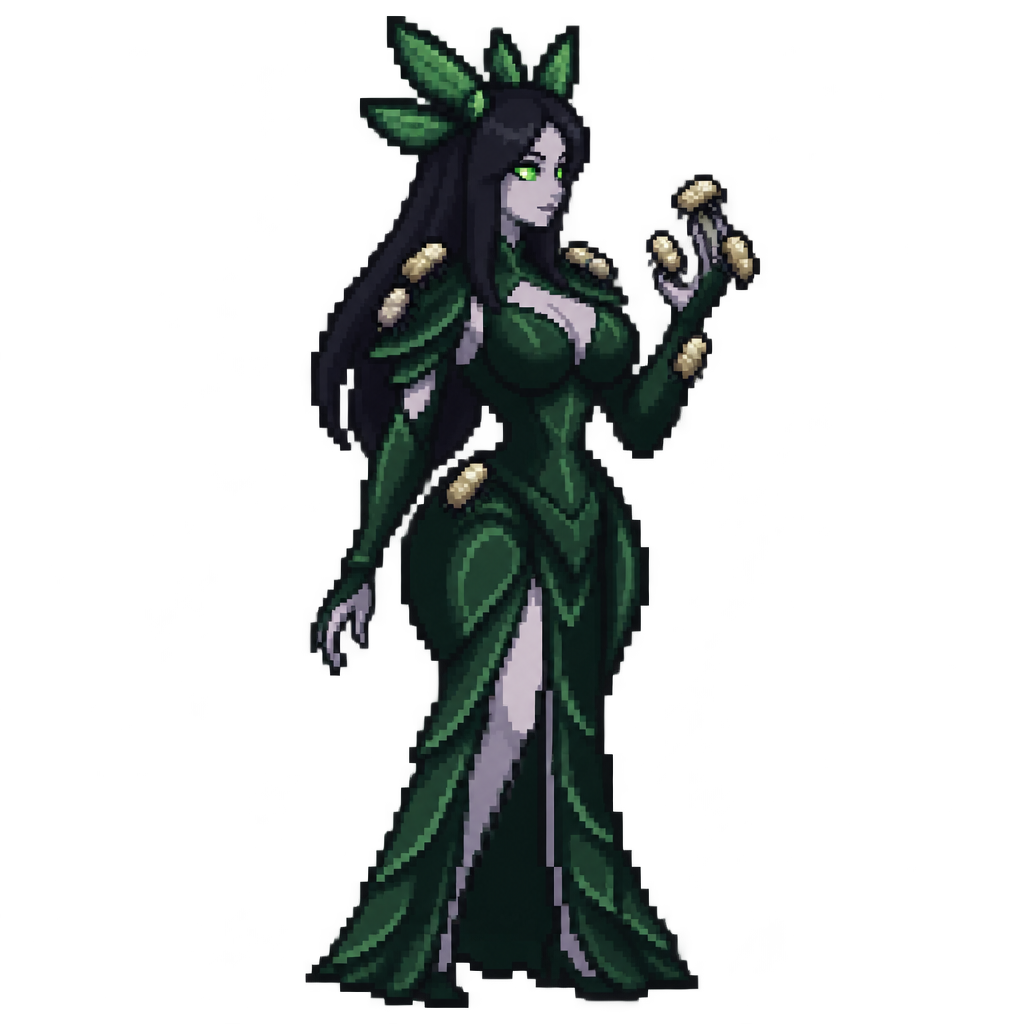
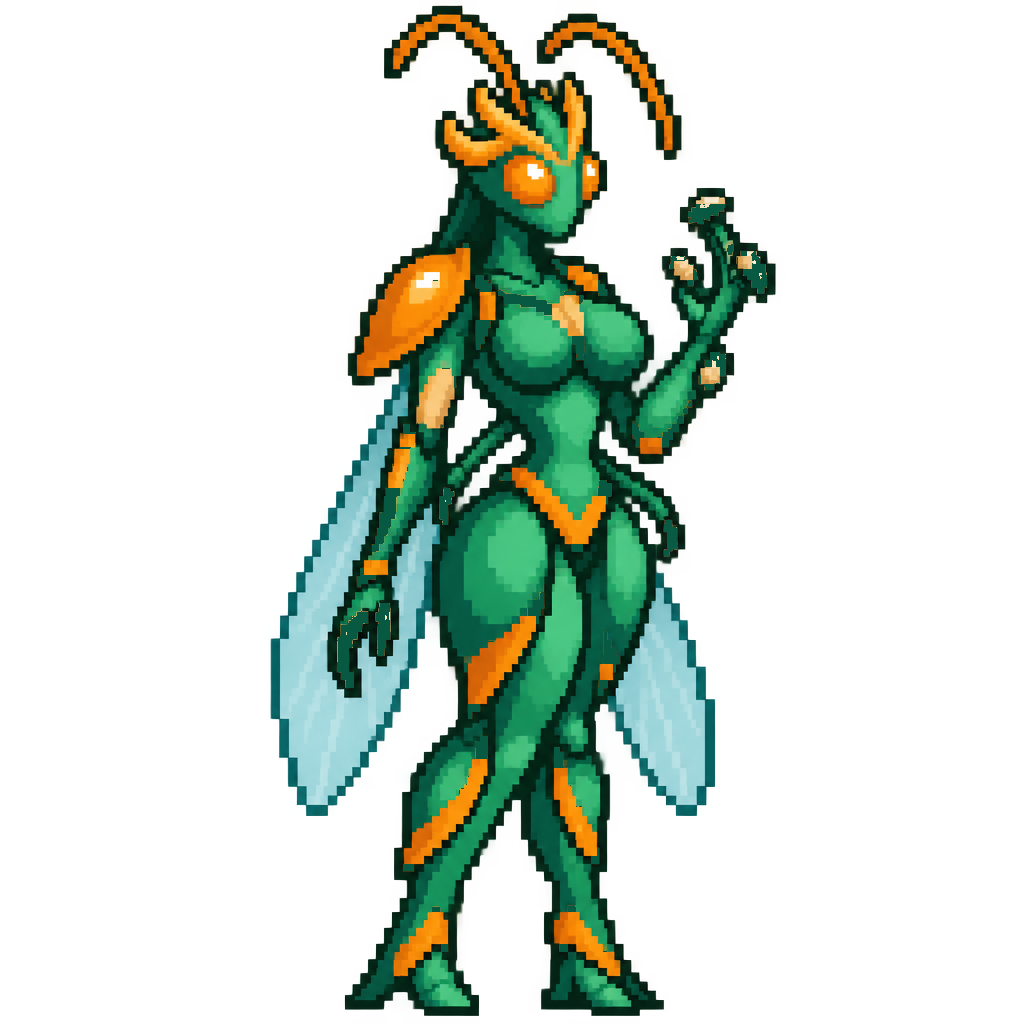
Act IX art review R1 (figures): the Broodbound redesigned as an alien insect woman, bright jade and gold, with her three skins and strips
Claude-Session: https://claude.ai/code/session_01TjA5CNwUWb95gMazj5Z3qp

Changed region(s): [[0.25, 0.0, 0.7812, 1.0]]

diff --git a/tools/walk_cycle.py b/tools/walk_cycle.py
@@ -917,7 +917,7 @@ RIGS = {
     "concord/acid_spitter": dict(mode="legs", hip=21, back=(0, 15), front=(15, 32), rigid=[], spread=1, lift=1, dip=1),
     "concord/brood_matriarch": dict(mode="hover", bob=2, parts=[]),
     "bosses/hive_mother_flight": dict(mode="hover", bob=2, parts=[]),
-    "player/broodbound": dict(mode="robe", hip=32, rigid=[], sway=1, dip=1, bust=(9, 21, 14, 21, 2)),
+    "player/broodbound": dict(mode="robe", hip=32, rigid=[], sway=1, dip=1, bust=(14, 24, 14, 22, 2), bust_exclude=[(24, 32, 10, 24)]),  # Act IX R1 redo: the new insect-woman still (bust cols 14-23, rows 14-21; the raised arm beyond col 24 and the shoulder case left of col 14 stay still).
     # --- Act IX: the Proving Moon ---
     # The Warbeast (a creature) prowls on its four legs (its hind and fore pairs as the back and front halves, like Old
     # Greymane); Vrask'Tal strides (the cloak and glaive end above the hip); the Blooded (female, figure redesign) strides
@@ -1075,6 +1075,8 @@ SKINS = {
 }
 # Per-skin field overrides of the derived rig (same keys as RIGS), set after review.
 SKIN_FIX = {
+    # --- Act IX R1 redo: the Hyper Broodbound is 30 wide (the base 32): its own box, 2 px left of the base box, arm excluded. ---
+    "player/broodbound_hyper": {"bust": (12, 22, 14, 22, 2), "bust_exclude": [(22, 30, 10, 24)]},
     # --- Act VII: the Witchwood --- R1 redo: the Deathlord skin has its own upper (bust) box, the base's derived one with x1 + 2.
     "player/hedge_witch_deathlord": {"bust": (13, 25, 15, 21, 2)},
     # --- Act VII round 1 redo: the regenerated Deathlord skins are 44 wide (the bases 42 / 46), so their own splits and box ---
